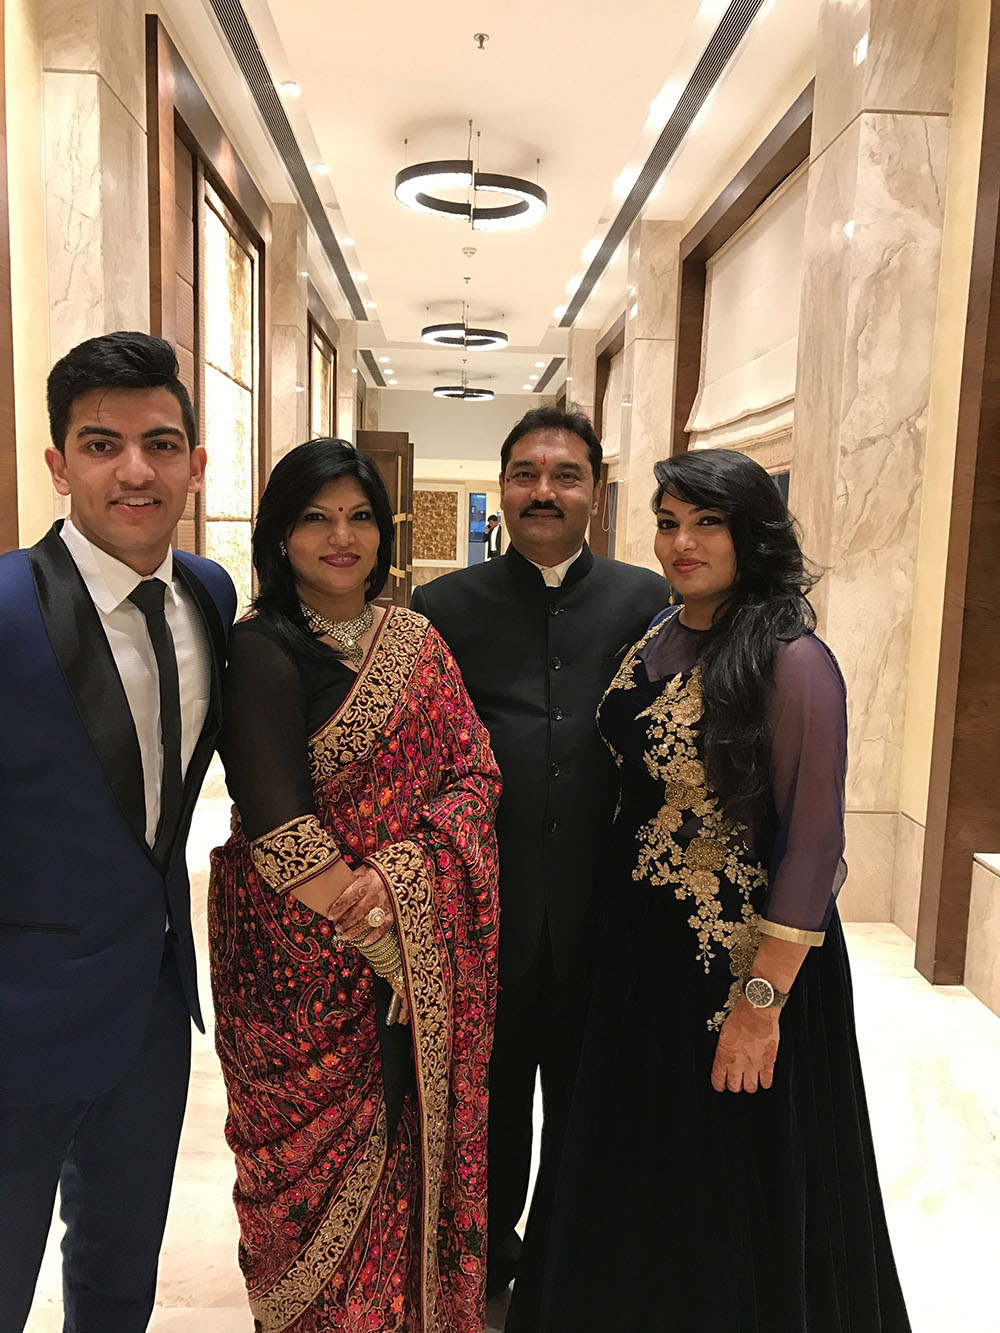
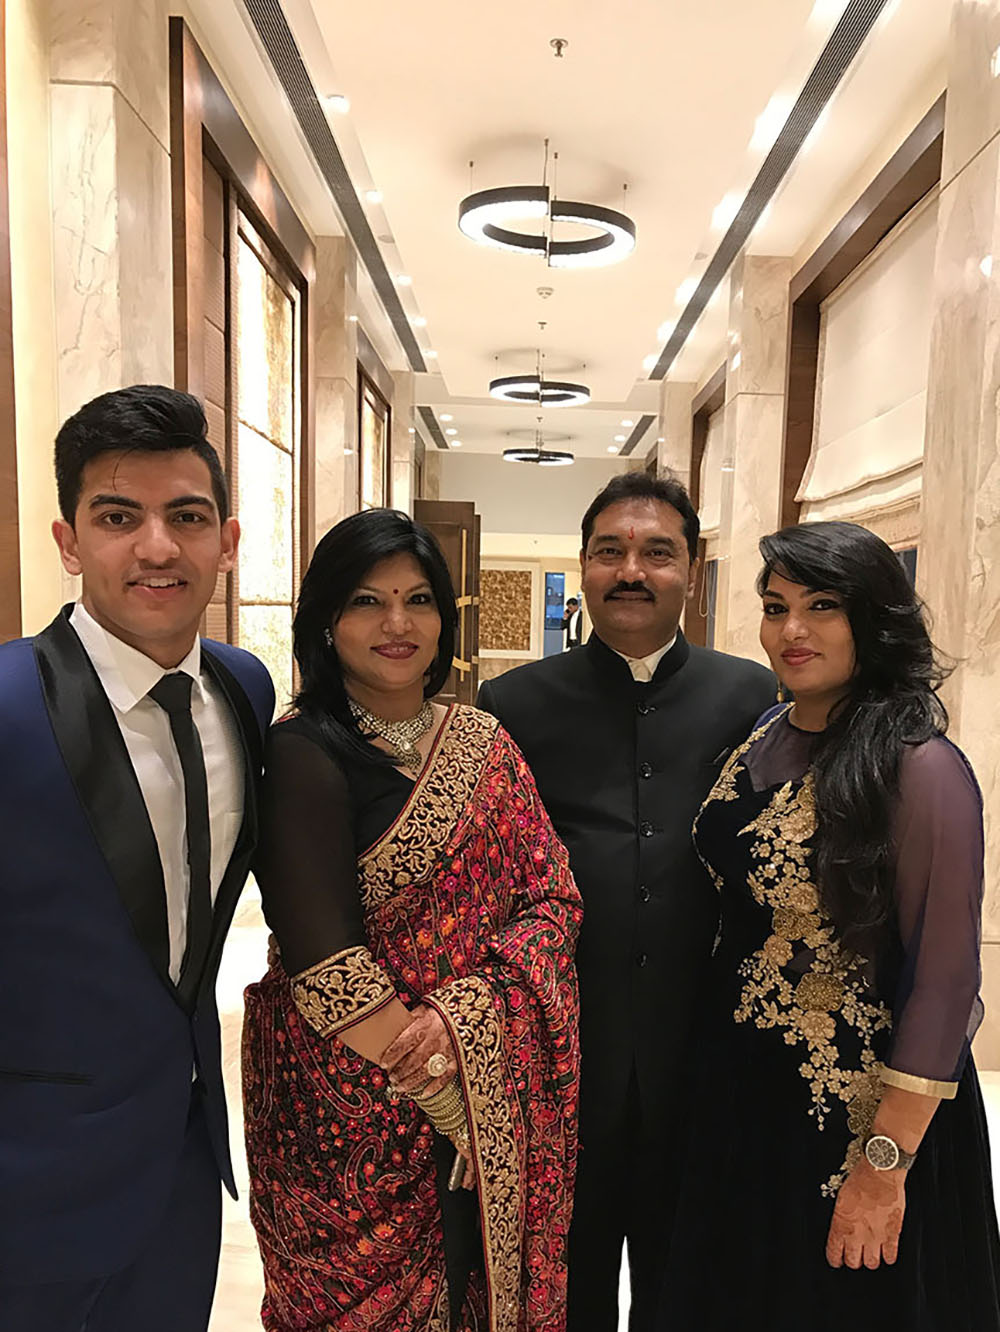
Crop bride family photo
- Update groom bio description

diff --git a/index.html b/index.html
@@ -227,7 +227,7 @@
                         <div class="details">
                             <span>The groom</span>
                             <h4>Anish Khale</h4>
-                            <p>Anish, daughter of Mr. Ninad and Mrs. Sharmila Khale, is a Software Engineer based in Atlanta, Georgia. He was born in Mumbai and has spent the majority of his life there prior to being admitted to Georgia Institute of Technology for his Masters. There, he met Nikita in common lectures and they quickly became good friends. The duo were a great team, be it for college projects or work life, and they continue to be one. He is extremely talented, intelligent, smart, humble, and a solid support system for Nikita.</p>
+                            <p>Anish, son of Mr. Ninad and Mrs. Sharmila Khale, is a Software Engineer based in Atlanta, Georgia. He was born in Mumbai and has spent the majority of his life there prior to being admitted to Georgia Institute of Technology for his Masters. There, he met Nikita in common lectures and they quickly became good friends. The duo were a great team, be it for college projects or work life, and they continue to be one. He is extremely talented, intelligent, smart, humble, and a solid support system for Nikita.</p>
                             <ul class="social-links">
                                 <li><a href="https://www.facebook.com/anishkhale" target="_blank"><i class="fa fa-facebook"></i></a></li>
                                 <li><a href="https://twitter.com/anishkhale" target="_blank"><i class="fa fa-twitter"></i></a></li>
